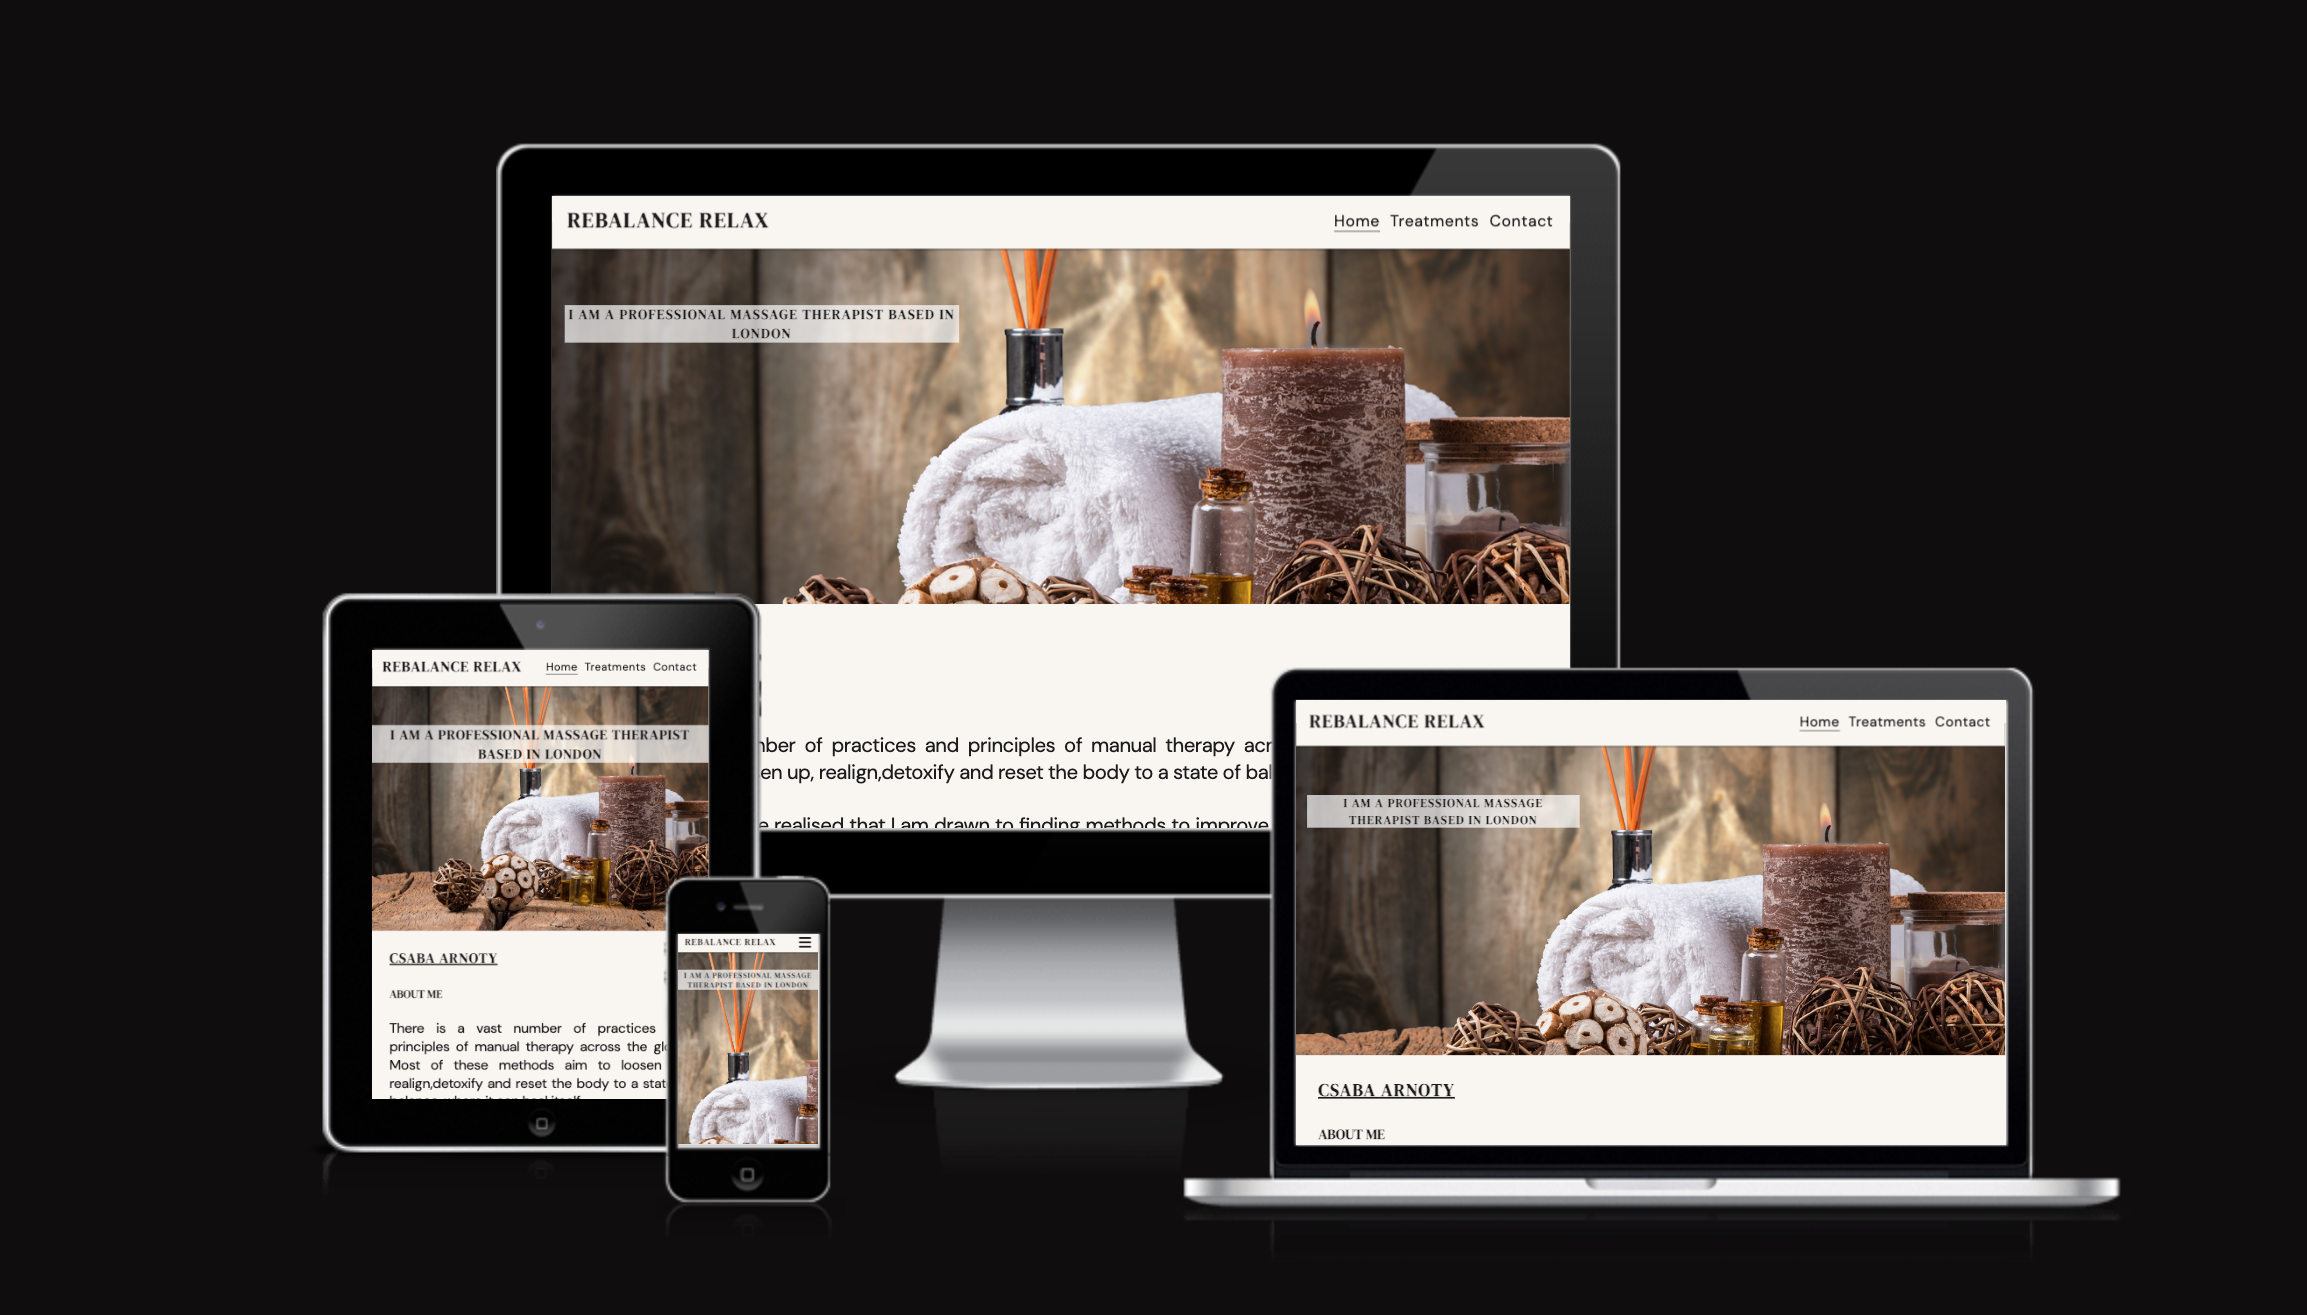
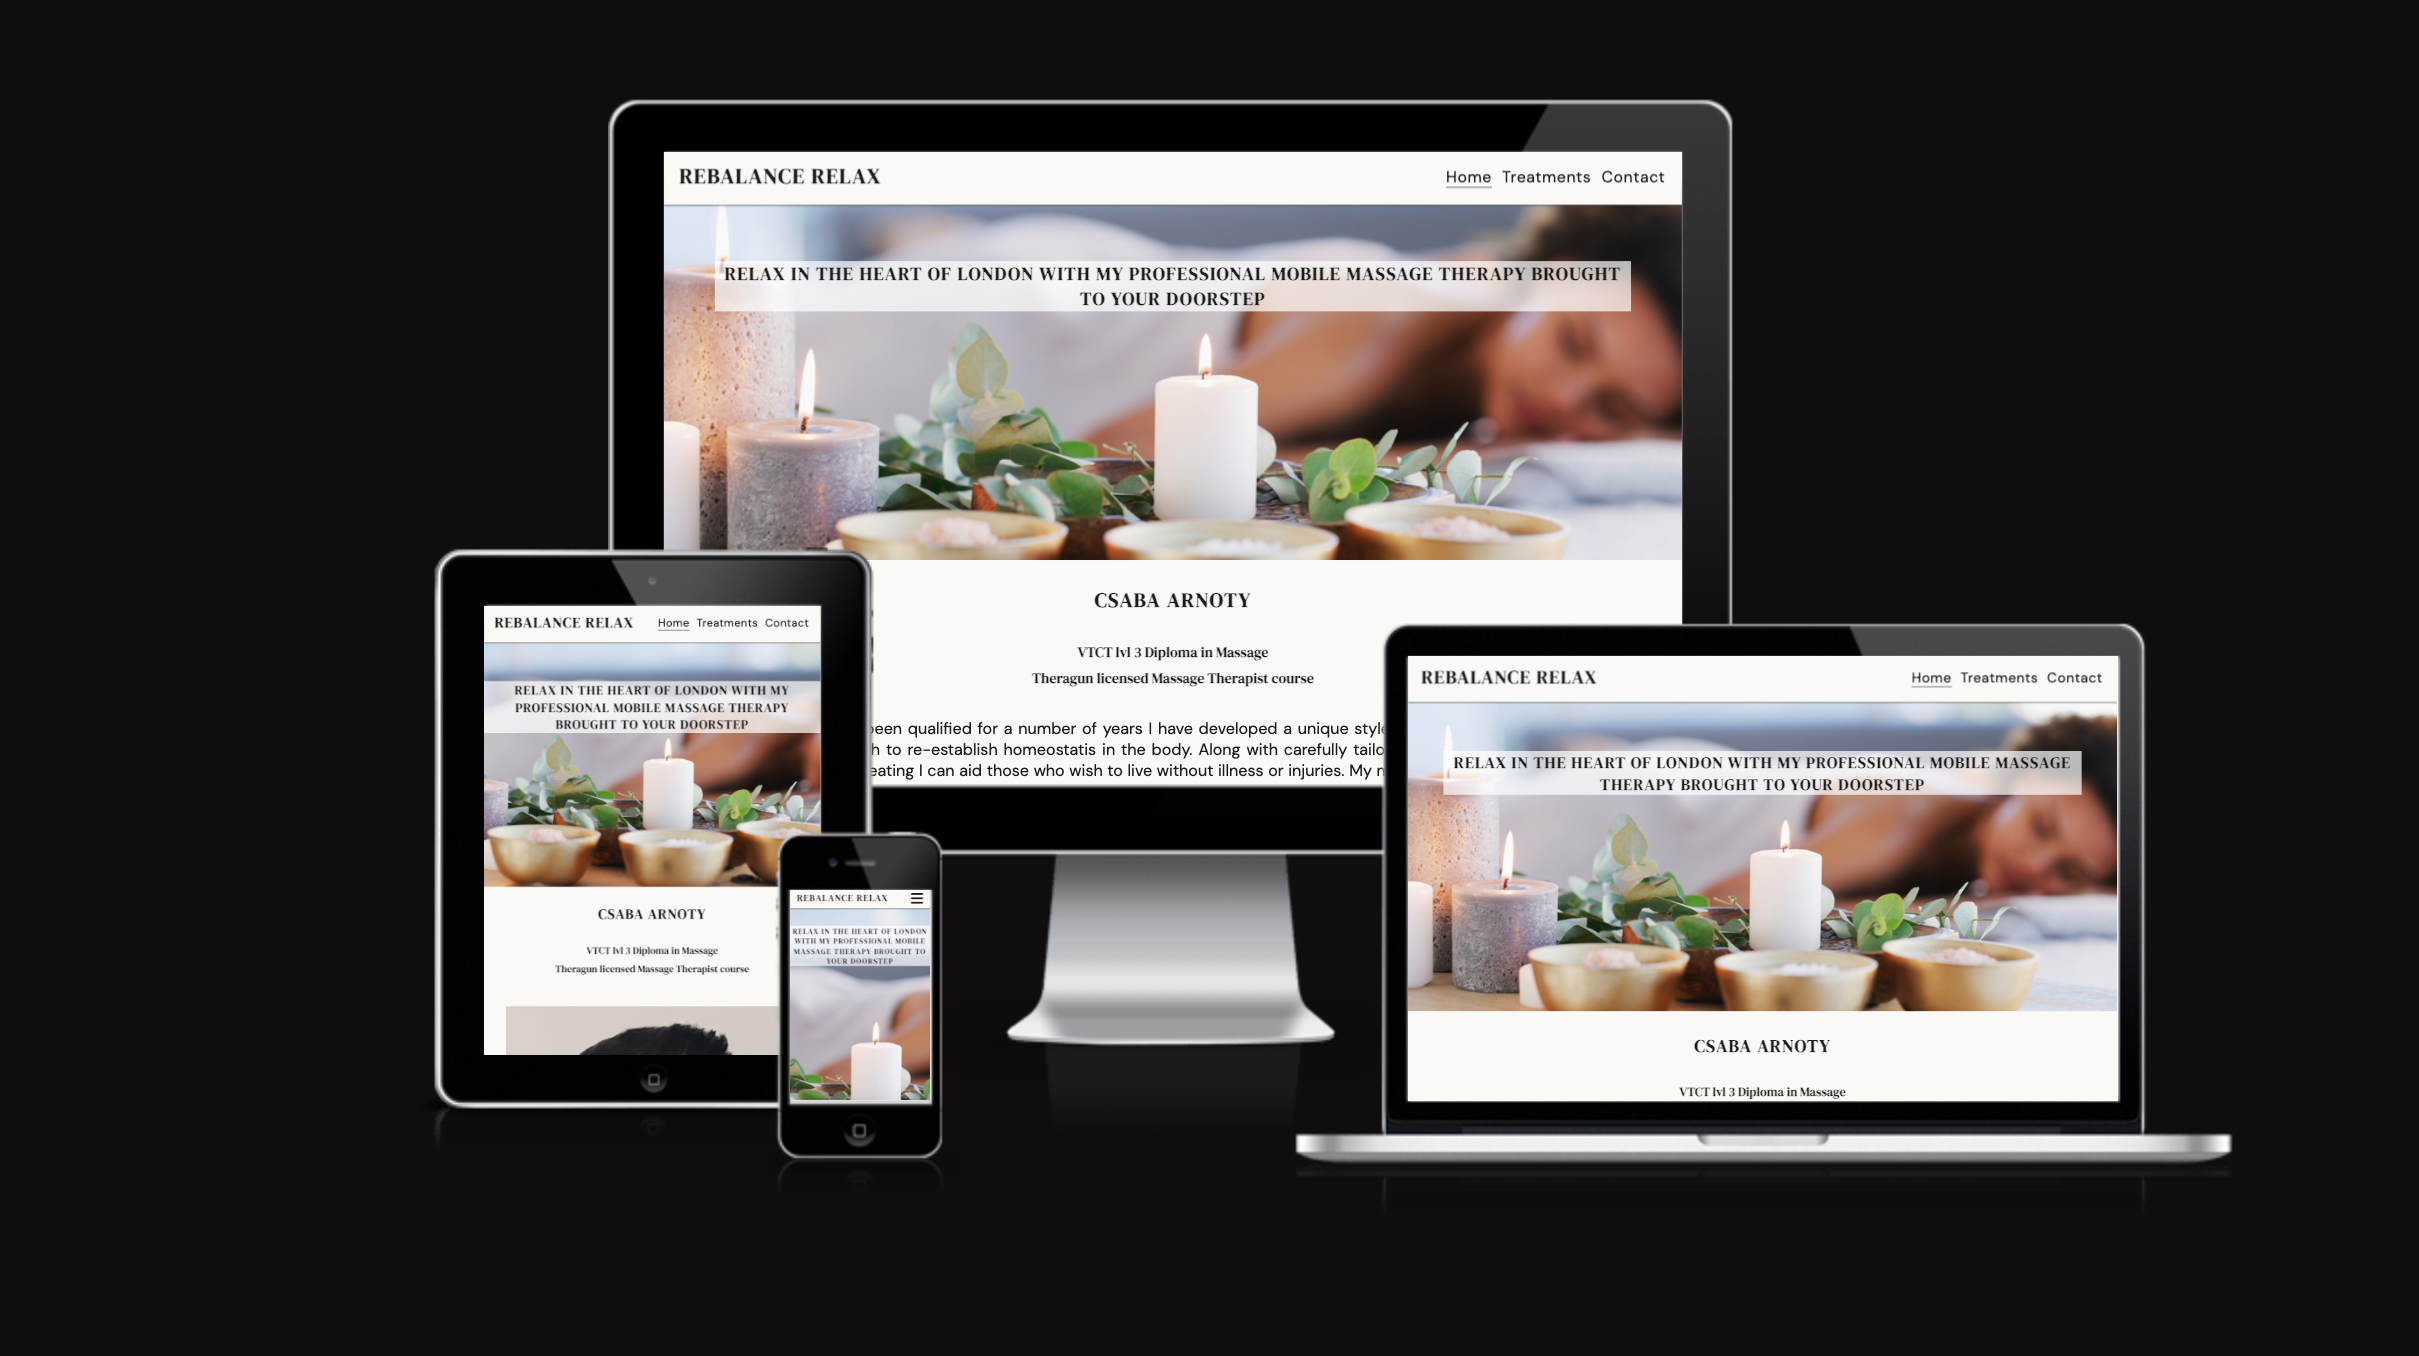
Make changes to README.md file

diff --git a/README.md b/README.md
@@ -62,13 +62,13 @@ Given the age group of users the website is likely to be viewed on different scr
  
 This is a three-page website to allow desired information to fit. It has navigation bar at the top which allows users to access different parts of the website.
 I tried to mix pieces of information with images to aid better visual experience.
-The drop-down treatment menu is used to prevent information overload at first glance and also save space on mobile screens. It allows immediate basic information uptake with an option of going into more detail if required.
+The drop-down treatment menu is used to prevent information overload at first glance and also save space on mobile screens. It allows immediate basic information uptake with an option of going into more detail if required. Different layout is used for larger screens to make use of available space.
 
 ### **Skeleton**
 
 ![Wireframes](docs/wireframes)
 
-The website differs slightly from created wireframes. Once created the treatments and home page looked bare so I decided to add more images and content, and change the layout for better visual experience.
+The website differs from created wireframes. Once created the treatments and home page looked bare so I decided to add more images and content, and change the layout for better visual experience. The feedback from friends and family also influenced the changes.
 
 ### **Surface**
 
@@ -90,12 +90,11 @@ The navbar is positioned on the top of the page, the menu collapses into a hambu
 
 ![Home page](docs/homepage.png)
 
-This is an introduction of the service provider where he shares his path to being a massage therapist. I used H2 and H3 elements followed by three paragraphs.
-This page also has a testimonials section.
+This is an introduction of the service provider where he shares his path to being a massage therapist. It also mentions therapist's qualifications. I used H2 and H3 elements followed by three paragraphs and an image of the therapist. This page also has a testimonials section.
 
 ### *Treatments*
 
-This page has a treatment menu which has information about types of treatment and prices. I used Details element for a mobile screen layout. It allows to see information at a glance and then read more about the treatments when clicking the arrow. I used the table to organise pricing information for treatment bundles.
+This page has a treatment menu which has information about types of treatment and prices. I used Details element for a mobile screen layout. It allows to see information at a glance and then read more about the treatments when clicking the arrow. I used a table to organise pricing information for treatment bundles.
 I have changed the layout for larger screens to make use of the space and provide better visual user experience.
 
 ### *Contact*
@@ -214,18 +213,17 @@ The following websites/articles were used for research and guidance:
 
 - [Media Queries](https://css-tricks.com/snippets/css/media-queries-for-standard-devices/)
 
-I used code from the following resources:
-
+- [W3Schools](https://www.w3schools.com)
 
 The below websites were used for the content: 
 
-- I wrote most of the content but I used 
-- A number of the images come from found on [Pexels](https://pexels.com).
+- The content and a therapist's photo came from the massage therapist
+- A number of the images were found on [Pexels](https://pexels.com), [Istock](https://istockphoto.com)
 
 ---
 ## Acknowledgements
 
-I would like to thank my course mentor Jubril Akolade for his support and guidance throughout the course of the project and Codeanywhere tutors Sarah and Gemma.
+I would like to thank my course mentor Jubril Akolade for his support and guidance throughout the course of the project and Codeanywhere tutors Sarah, Gemma and John.
 
 ---
 
